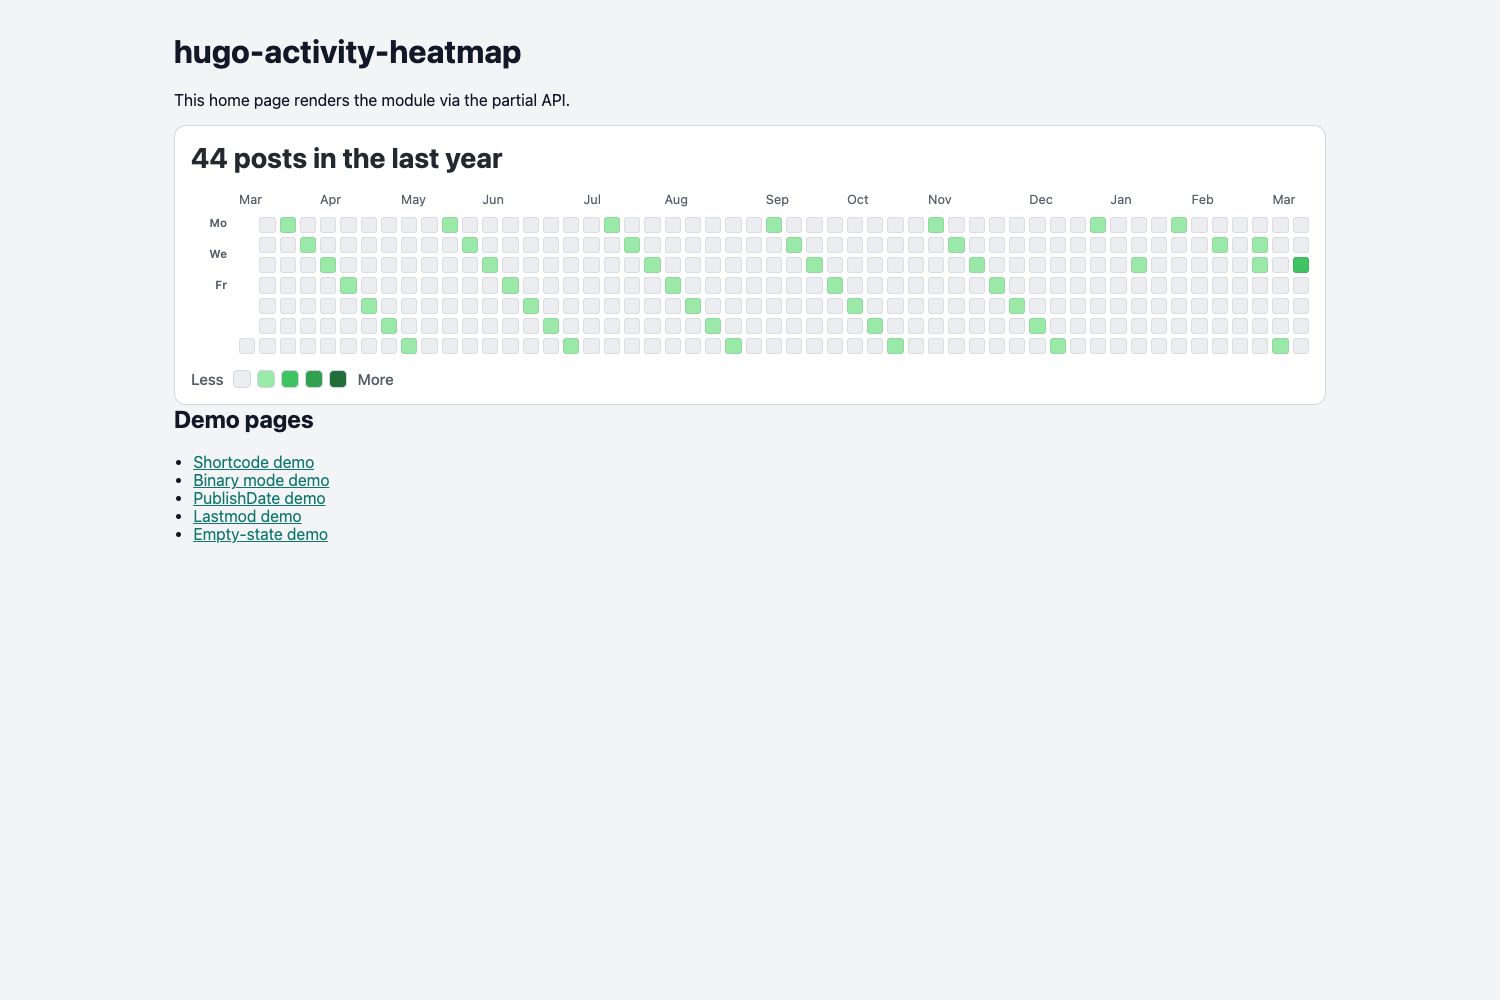
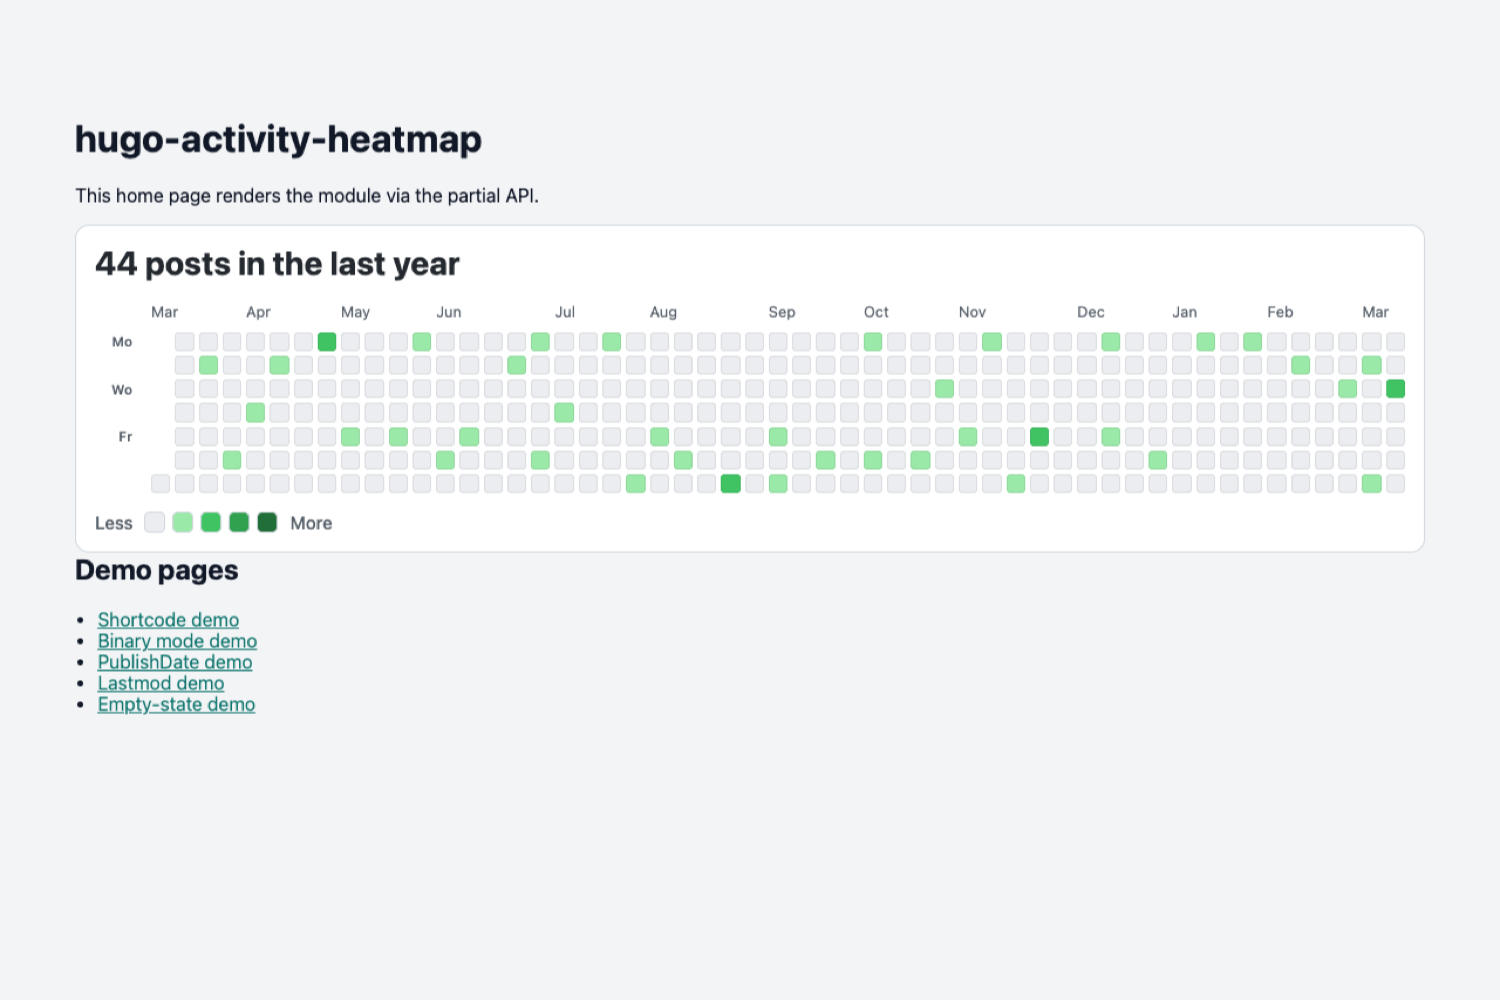
feat: refine weekday labels and preview data

diff --git a/layouts/partials/hugo-activity-heatmap/activity.html b/layouts/partials/hugo-activity-heatmap/activity.html
@@ -7,6 +7,9 @@
 {{- $nounSingular := default "item" (index . "noun_singular") -}}
 {{- $nounPlural := default "items" (index . "noun_plural") -}}
 {{- $startLabel := default "Started on" (index . "start_label") -}}
+{{- $weekdayMonLabel := default "Mo" (index . "weekday_mon_label") -}}
+{{- $weekdayWedLabel := default "We" (index . "weekday_wed_label") -}}
+{{- $weekdayFriLabel := default "Fr" (index . "weekday_fri_label") -}}
 {{- $showStart := false -}}
 {{- $showStartChip := true -}}
 {{- $showStartText := true -}}
@@ -180,7 +183,14 @@
       grid-template-columns: minmax(0, 1fr);
       column-gap: 0.75rem;
       width: 100%;
-      align-items: start;
+    }
+
+    .hea-months-row {
+      align-items: end;
+    }
+
+    .hea-grid-row {
+      align-items: stretch;
     }
 
     .hea-months-row--with-weekdays,
@@ -215,8 +225,9 @@
 
     .hea-weekdays {
       display: grid;
-      grid-template-rows: repeat(7, minmax(0, 1fr));
+      grid-template-rows: repeat(7, 1fr);
       gap: var(--hea-gap);
+      height: 100%;
       width: var(--hea-axis-width);
       color: var(--hea-muted);
       font-size: 0.72rem;
@@ -225,10 +236,12 @@
     }
 
     .hea-weekday {
-      display: inline-flex;
+      display: flex;
       align-items: center;
       justify-content: flex-end;
+      height: 100%;
       min-width: 0;
+      padding-right: 0.25rem;
     }
 
     .hea-grid {
@@ -379,9 +392,9 @@
       <div class="hea-grid-row {{ if $showWeekdays }}hea-grid-row--with-weekdays{{ end }}">
         {{- if $showWeekdays -}}
           <div class="hea-weekdays" aria-hidden="true">
-            <span class="hea-weekday" style="grid-row: 1;">Mo</span>
-            <span class="hea-weekday" style="grid-row: 3;">We</span>
-            <span class="hea-weekday" style="grid-row: 5;">Fr</span>
+            <span class="hea-weekday" style="grid-row: 1;">{{ $weekdayMonLabel }}</span>
+            <span class="hea-weekday" style="grid-row: 3;">{{ $weekdayWedLabel }}</span>
+            <span class="hea-weekday" style="grid-row: 5;">{{ $weekdayFriLabel }}</span>
           </div>
         {{- end -}}
         <div class="hea-grid">

diff --git a/layouts/shortcodes/activity-heatmap.html b/layouts/shortcodes/activity-heatmap.html
@@ -10,6 +10,9 @@
 {{- $showStartText := .Get "show_start_text" | default "true" -}}
 {{- $showWeekdays := .Get "show_weekdays" | default "false" -}}
 {{- $startLabel := .Get "start_label" | default "Started on" -}}
+{{- $weekdayMonLabel := .Get "weekday_mon_label" | default "Mo" -}}
+{{- $weekdayWedLabel := .Get "weekday_wed_label" | default "We" -}}
+{{- $weekdayFriLabel := .Get "weekday_fri_label" | default "Fr" -}}
 {{- $legendInactiveLabel := .Get "legend_inactive_label" | default "No activity" -}}
 {{- $legendActiveLabel := .Get "legend_active_label" | default "Active day" -}}
 {{- partial "hugo-activity-heatmap/activity.html" (dict
@@ -26,6 +29,9 @@
   "show_start_text" $showStartText
   "show_weekdays" $showWeekdays
   "start_label" $startLabel
+  "weekday_mon_label" $weekdayMonLabel
+  "weekday_wed_label" $weekdayWedLabel
+  "weekday_fri_label" $weekdayFriLabel
   "legend_inactive_label" $legendInactiveLabel
   "legend_active_label" $legendActiveLabel
 ) -}}

diff --git a/exampleSite/layouts/index.html b/exampleSite/layouts/index.html
@@ -43,6 +43,9 @@
         "noun_singular" "post"
         "noun_plural" "posts"
         "show_weekdays" true
+        "weekday_mon_label" "Mo"
+        "weekday_wed_label" "Wo"
+        "weekday_fri_label" "Fr"
       ) }}
 
       <h2>Demo pages</h2>

diff --git a/README.md b/README.md
@@ -84,6 +84,9 @@ Common example:
 - `show_start_chip`: optional, default `true`
 - `show_start_text`: optional, default `true`
 - `show_weekdays`: optional, default `false`; shows `Mo`, `We`, and `Fr`
+- `weekday_mon_label`: optional, default `Mo`
+- `weekday_wed_label`: optional, default `We`
+- `weekday_fri_label`: optional, default `Fr`
 - `start_label`: optional, default `Started on`
 - `legend_inactive_label`: optional, binary mode only, default `No activity`
 - `legend_active_label`: optional, binary mode only, default `Active day`
@@ -106,6 +109,20 @@ Blog posts with density mode:
 
 ```md
 {{< activity-heatmap section="blog" noun_singular="post" noun_plural="posts" show_weekdays="true" >}}
+```
+
+Localized weekday labels:
+
+```md
+{{< activity-heatmap
+  section="blog"
+  noun_singular="post"
+  noun_plural="posts"
+  show_weekdays="true"
+  weekday_mon_label="Mo"
+  weekday_wed_label="Wo"
+  weekday_fri_label="Fr"
+>}}
 ```
 
 Notes with binary mode:

diff --git a/exampleSite/content/blog/extra-01.md b/exampleSite/content/blog/extra-01.md
@@ -1,6 +1,6 @@
 +++
 title = "Extra blog post 01"
-date = 2025-03-17T08:00:00+01:00
+date = 2025-03-18T08:00:00+01:00
 draft = false
 +++
 

diff --git a/exampleSite/content/blog/extra-02.md b/exampleSite/content/blog/extra-02.md
@@ -1,6 +1,6 @@
 +++
 title = "Extra blog post 02"
-date = 2025-03-25T08:00:00+01:00
+date = 2025-03-29T08:00:00+01:00
 draft = false
 +++
 

diff --git a/exampleSite/content/blog/extra-03.md b/exampleSite/content/blog/extra-03.md
@@ -1,6 +1,6 @@
 +++
 title = "Extra blog post 03"
-date = 2025-04-02T08:00:00+01:00
+date = 2025-04-03T08:00:00+01:00
 draft = false
 +++
 

diff --git a/exampleSite/content/blog/extra-04.md b/exampleSite/content/blog/extra-04.md
@@ -1,6 +1,6 @@
 +++
 title = "Extra blog post 04"
-date = 2025-04-10T08:00:00+01:00
+date = 2025-04-08T08:00:00+01:00
 draft = false
 +++
 

diff --git a/exampleSite/content/blog/extra-05.md b/exampleSite/content/blog/extra-05.md
@@ -1,6 +1,6 @@
 +++
 title = "Extra blog post 05"
-date = 2025-04-18T08:00:00+01:00
+date = 2025-04-21T08:00:00+01:00
 draft = false
 +++
 

diff --git a/exampleSite/content/blog/extra-06.md b/exampleSite/content/blog/extra-06.md
@@ -1,6 +1,6 @@
 +++
 title = "Extra blog post 06"
-date = 2025-04-26T08:00:00+01:00
+date = 2025-04-21T15:00:00+01:00
 draft = false
 +++
 

diff --git a/exampleSite/content/blog/extra-07.md b/exampleSite/content/blog/extra-07.md
@@ -1,6 +1,6 @@
 +++
 title = "Extra blog post 07"
-date = 2025-05-04T08:00:00+01:00
+date = 2025-05-02T08:00:00+01:00
 draft = false
 +++
 

diff --git a/exampleSite/content/blog/extra-08.md b/exampleSite/content/blog/extra-08.md
@@ -1,6 +1,6 @@
 +++
 title = "Extra blog post 08"
-date = 2025-05-12T08:00:00+01:00
+date = 2025-05-16T08:00:00+01:00
 draft = false
 +++
 
